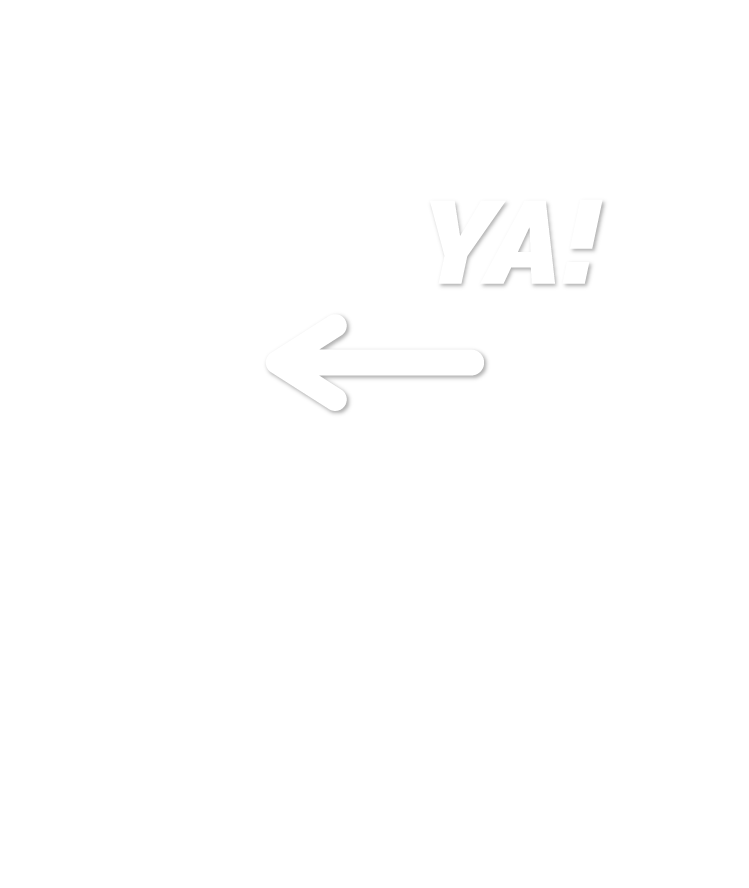
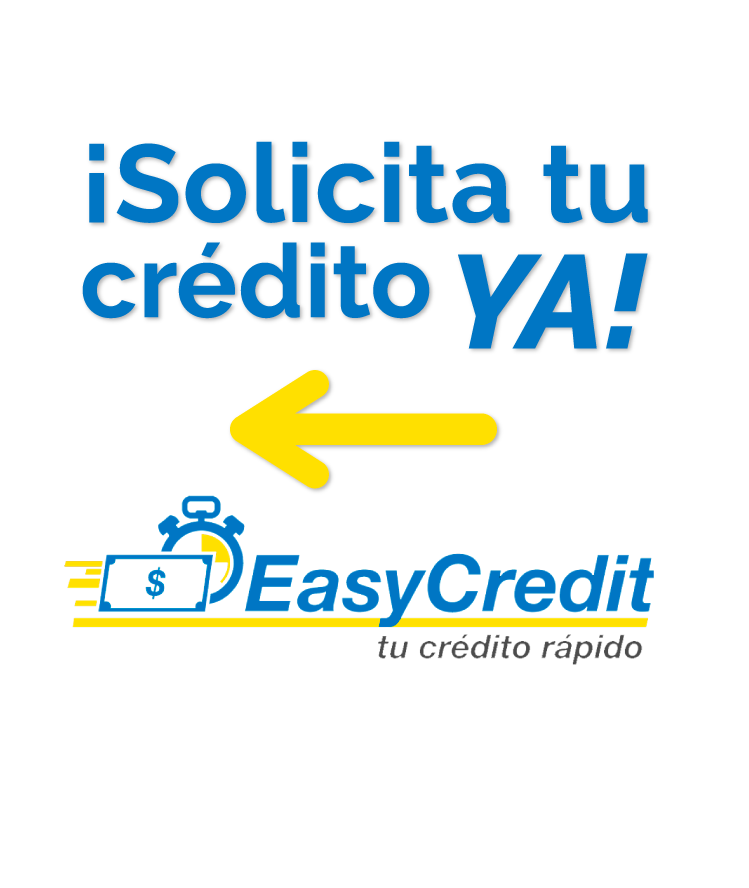
cambios mile

Changed region(s): [[0.0921, 0.152, 0.8905, 0.5777], [0.0921, 0.5473, 0.8905, 0.7601]]

diff --git a/src/web/Main.js b/src/web/Main.js
@@ -21,9 +21,7 @@ const Main = () => {
               <div className="service-area">
                 <div className="container">
                   <h4 className="titulocalculadora">Calcula tu crédito</h4>
-                  {/*<!-- aquí va la calculadora
-							-->*/}
-                    <Calculadora/>
+                  <Calculadora/>
                     <br/>
                   <button
                     type="button"

diff --git a/src/components/Calculadora/Calculadora.js b/src/components/Calculadora/Calculadora.js
@@ -146,7 +146,7 @@ const Calculadora = (props) => {
                   defaultValue={120000}
                   min={120000}
                   valueLabelDisplay="on"
-                  max={750000}
+                  max={350000}
                   onChange={handlechangeSliderValor}
                   step={10000}
                   className={classes.slide}

diff --git a/src/components/Calculadora/CalculadoraStyle.js b/src/components/Calculadora/CalculadoraStyle.js
@@ -32,6 +32,7 @@ export const calculadoraStyle = makeStyles((theme) => ({
       backgroundColor:'#fff',
       borderRadius: 10,
       alignItems:'center',
+      textAlign:'center',
       justifyContent:'center',
       //display:'flex',
       color:'black',

diff --git a/src/web/Main.css b/src/web/Main.css
@@ -63,7 +63,7 @@ body{
 	color: white;
 }
 .cajacalbanner{
-	background: #3973B8; 
+	background: white; 
 	height: 888px; 
 	margin-top: -23px;
 }
